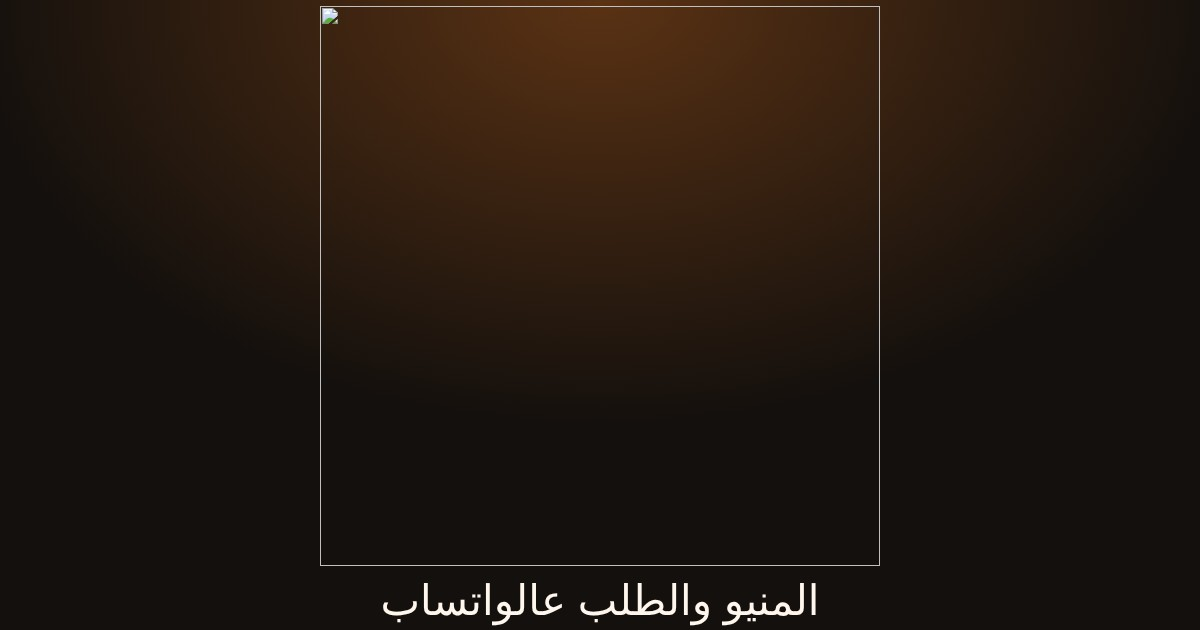
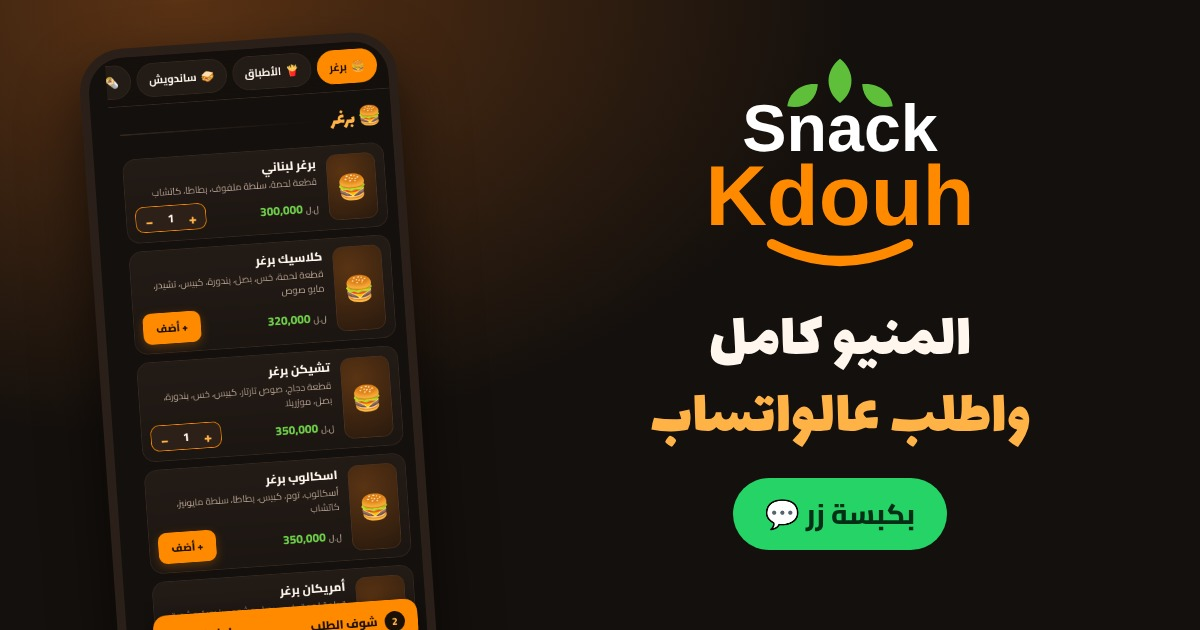
Snack Kdouh: branded link preview card
Claude-Session: https://claude.ai/code/session_01BpJiUDiqP94tnEXCRMte5Y

diff --git a/demo/snackkdouh/index.html b/demo/snackkdouh/index.html
@@ -9,7 +9,7 @@
 <meta property="og:type" content="website">
 <meta property="og:site_name" content="Nafetha | نافذة">
 <meta property="og:title" content="Snack Kdouh | سناك قدوح">
-<meta property="og:description" content="شوف المنيو واطلب عالواتساب بكبسة.">
+<meta property="og:description" content="شوف المنيو كامل واطلب عالواتساب بكبسة زر.">
 <meta property="og:image" content="https://nafetha-web.github.io/demo/snackkdouh/og.jpg">
 <meta name="twitter:card" content="summary_large_image">
 <link rel="icon" href="logo.svg" type="image/svg+xml">
